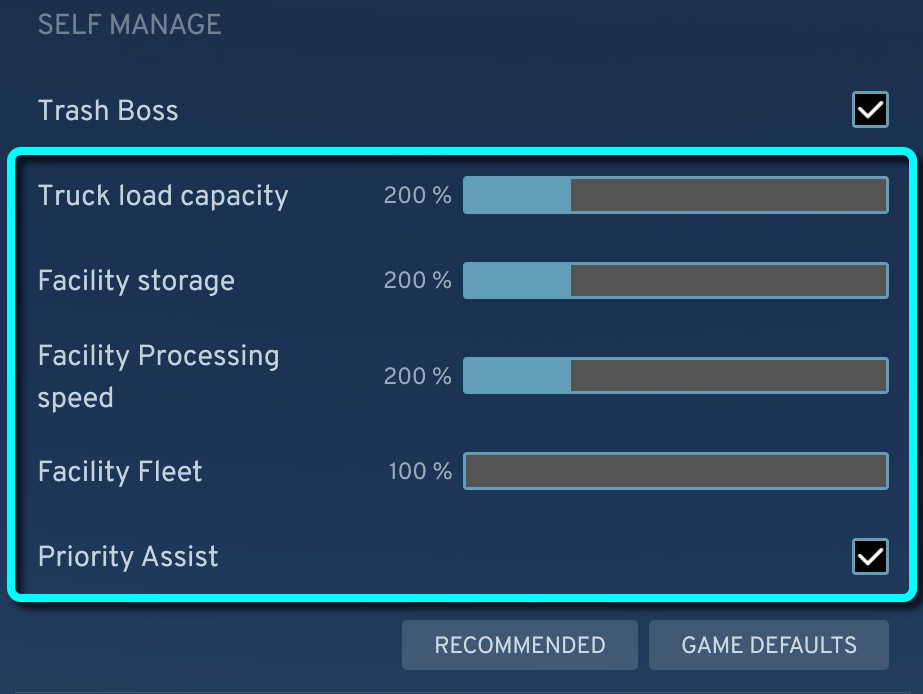
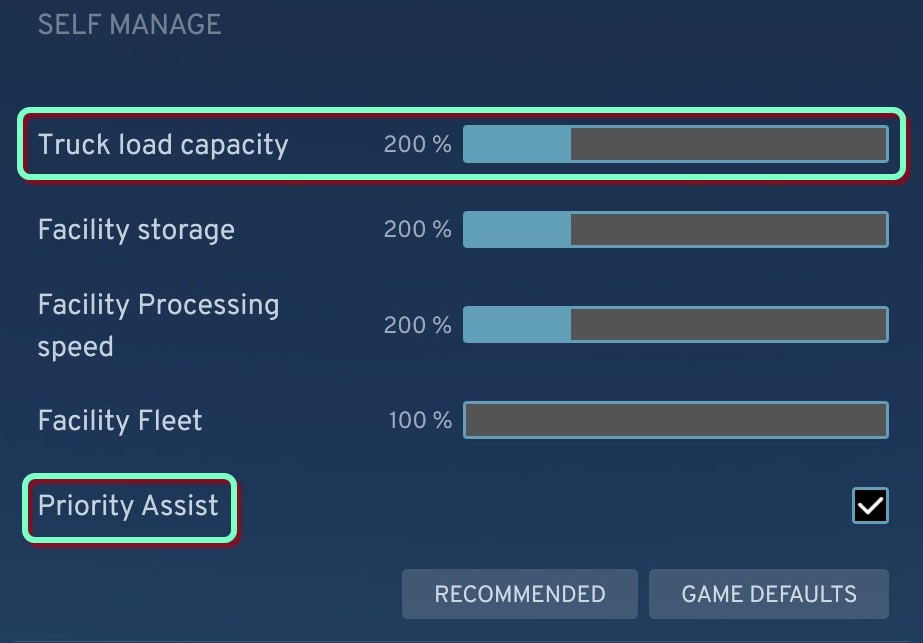
prep for publish

diff --git a/README.md b/README.md
@@ -25,7 +25,7 @@ There is no in-city UI panel.
 
 ### Standard Trash Boss sliders
 
-- **Truck load capacity** (**100–500%**)
+- **Truck load capacity** (**100–1000%**)
 - **Facility storage** (**100–500%**)
 - **Facility processing speed** (**100–500%**)
 - **Facility fleet** (**100–400%**)